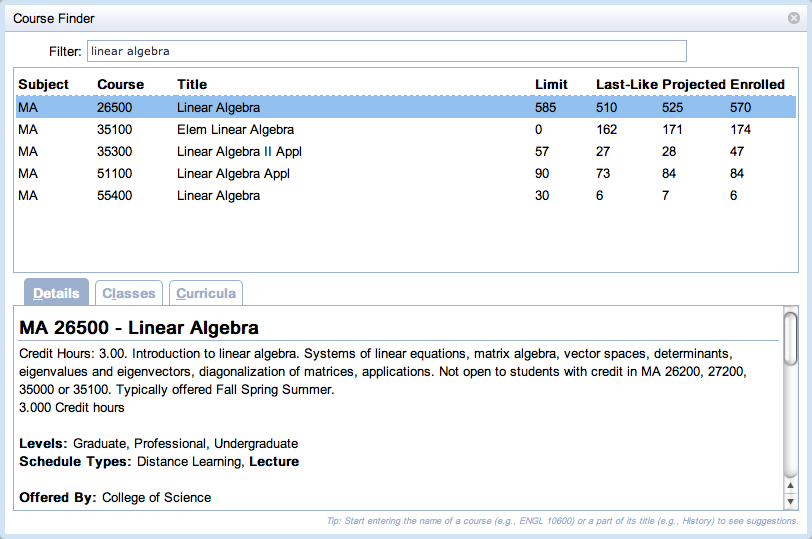
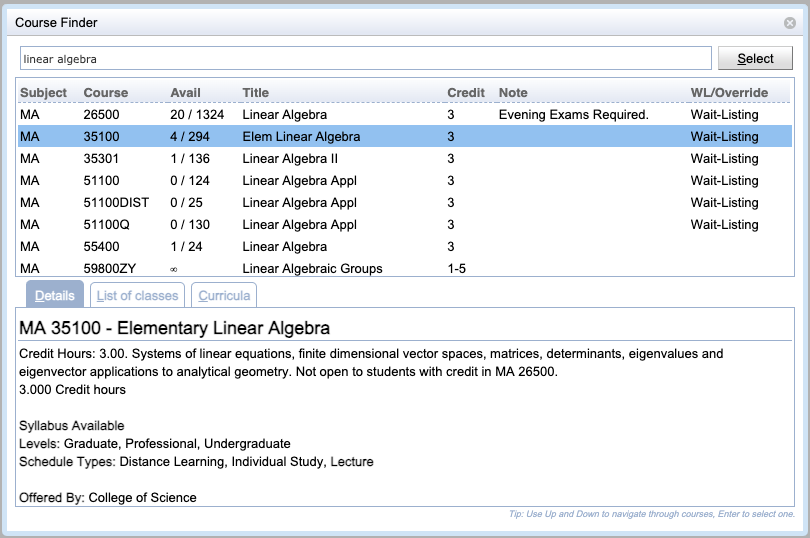
Student Scheduling Manual
- more description, especially the different settings
- extended description of the Course Finder dialog

Changed region(s): [[0.0, 0.0, 1.0, 1.0], [0.7099, 0.3569, 0.7407, 0.3866], [0.216, 0.4461, 0.2469, 0.4758]]

diff --git a/manuals/student-scheduling.md b/manuals/student-scheduling.md
@@ -17,7 +17,7 @@ Student scheduling, sometimes called *student sectioning*, involves assigning st
 of courses each student gets, considering student and course priorities, student preferences, penalizing alternatives and substitutes, minimizing distance conflicts or travel times, etc. In the rest of this section, the most interesting aspects of the student scheduling problem are discussed.
 
 ### Course Structure
-Each course may be offered in multiple configurations, such as face-to-face or online, each with multiple components (subparts), such as a lecture and a lab. Each subpart may contain multiple alternative classes. A student requesting a course will get one class of each subpart of a single configuration. There can be additional parent-child relations between individual classes, which also must be followed. So, for example, a student may get Lec 1 - Lab 1, Lec 1 - Lab 2, Lec 2 - Lab 3, or Lec 2 - Lab 4 class combination if attending the course face-to-face, or Dist 1 when attending the course online. Each class can also have a limit, allowing only a certain number of students to get in.
+Each course may be offered in multiple [configurations](../instructional-offering-configuration), such as face-to-face or online, each with multiple components (subparts), such as a lecture and a lab. Each subpart may contain multiple alternative classes. A student requesting a course will get one class of each subpart of a single configuration. There can be additional parent-child relations between individual classes, which also must be followed. So, for example, a student may get Lec 1 - Lab 1, Lec 1 - Lab 2, Lec 2 - Lab 3, or Lec 2 - Lab 4 class combination if attending the course face-to-face, or Dist 1 when attending the course online. Each class can also have a limit, allowing only a certain number of students to get in.
 
 ### Reservations and Restrictions
 Access to courses or certain components of courses, such as configurations or individual classes, may be restricted with [reservations](../reservations). A reservation reserves a certain number of seats in the course, or some of its components, for a particular group of students, e.g., identified by their study program. A restriction does not reserve any space, but the students must follow it. For example, a student of an online program may be restricted to the online course configuration, while other students may freely choose between the two configurations, assuming space is available. Similarly, there can be 100 spaces in a course reserved for students of a Computer Science major, or the space in one of the Labs may be reserved for a particular cohort.
@@ -31,10 +31,10 @@ A student can indicate which course configurations and/or classes are preferred 
 Students may also indicate whether they prefer online or face-to-face classes and whether back-to-backs are preferred or discouraged. For the Summer terms, which are organized into three four-week modules, it is also possible to indicate during which modules the student can have classes and whether they can attend classes on campus.
 
 ### Student and Course Request Priorities
-Student and course request priorities have been added to help students graduate on time. First of all, advisors may indicate courses as vital to the student, which means that the student absolutely needs the course (or one of the provided alternatives) to progress towards their degree. Moreover, students are divided into priority students (such as athletes and students in university bands and orchestra), students near graduation (with 100 or more credits earned), senior students (60 or more credits), and the rest. Vital course requests take priority over student priorities.
+Student and course request priorities have been added to help students graduate on time and to deal with popular courses of limited capacity. First of all, advisors may indicate courses as vital to the student, which means that the student absolutely needs the course (or one of the provided alternatives) to progress towards their degree. Moreover, students are divided into priority students (such as athletes and students in university bands and orchestra), students near graduation (with 100 or more credits earned), senior students (60 or more credits), and the rest. Vital course requests take priority over student priorities.
 
 ### Batch vs Online
-Student scheduling in UniTime can be done in two modes. In **batch** mode, the [Student Scheduling Solver](../student-scheduling-solver) is used to compute individual student schedules for all (or a selected population of) students simultaneously. This is an optimization process aimed at maximizing the number of courses students can take, as well as considering various optimization criteria, including travel times and the aforementioned preferences and priorities. This process includes a pre-registration step where students provide information about the courses they need, along with additional preferences, alternatives, and requests for free time.
+Student scheduling in UniTime can be done in two modes. In **batch** mode, the [Student Scheduling Solver](../student-scheduling-solver) is used to compute individual student schedules for all (or a selected population of) students simultaneously. This is an optimization process aimed at maximizing the number of courses students can take, as well as considering various optimization criteria, including travel times and the aforementioned preferences and priorities. This process includes a pre-registration step where students provide information about the courses they need (usig [Student Course Requests](../student-course-requests)), along with additional preferences, alternatives, and requests for free time.
 
 The **online** student scheduling serves students as they come. They can use the [Student Scheduling Assistant](../student-scheduling-assistant) to either modify their existing schedule or create a new one from scratch (e.g., if only the online mode is used, or the student did not complete the batch for some reason).
 
@@ -56,7 +56,7 @@ To enable pre-registration, the [academic session](../academic-sessions) needs t
 
 ## Advisor Course Recommendations
 
-It is possible to use UniTime for advising. Advisors can use the [Online Student Scheduling Dashboard](../online-student-scheduling-dashboard) to monitor their students' and their (pre-)registration progress. They can use the [Advisor Course Recommendations](../advisor-course-recommendations) page to change their status and provide a list of courses that they need to register for.
+It is possible to use UniTime for advising. Advisors can use the [Online Student Scheduling Dashboard](../online-student-scheduling-dashboard) to monitor their students' and their (pre-)registration progress. They can use the [Advisor Course Recommendations](../advisor-course-recommendations) page to change their students' status and provide a list of courses that they need to register for.
 
 Please note that the [Advisor Course Recommendations](../advisor-course-recommendations) page is an optional component and does not need to be used for students to pre-register. And even when used, students still need to use the [Student Course Requests](../student-course-requests) page, which will get pre-populated with the advisor course recommendations, and need to **Submit** the page to complete their pre-registration.
 
@@ -64,12 +64,26 @@ Please note that the [Advisor Course Recommendations](../advisor-course-recommen
 
 When opened, the advisor can look up a student, and the page gets pre-populated with the existing data. A different student can also be looked up by clicking the **Lookup Student** button or when the student's name or ID is clicked. If advisor course recommendations from multiple academic sessions can be viewed and/or edited, an academic session can be selected afterward. It can be changed at any time by clicking the term field. When there are any unsubmitted changes, the user is prompted when leaving the page or changing the student or session.
 
-Just like on the [Student Course Requests](student-course-requests), the page automatically offers course suggestions as the course name is being typed in (but it is possible to put in free text too), fills in credits, counts the credit totals, etc. When submitted, there is a PDF version generated that can be printed and signed by the student. It is also possible to email the document to the student (with the advisor on CC) when the page is submitted (and the Send email confirmation toggle is checked). In this case, the Send email... dialog pops up after the form has been successfully submitted, and the user can provide an additional message and email address if needed.
+The page automatically offers course suggestions as the course name is being typed in (but it is possible to put in free text too), fills in credits, counts the credit totals, etc. When submitted, there is a PDF version generated that can be printed and signed by the student. It is also possible to email the document to the student (with the advisor on CC) when the page is submitted (and the Send email confirmation toggle is checked). In this case, the Send email... dialog pops up after the form has been successfully submitted, and the user can provide an additional message and email address if needed.
 
 The page also allows for a student status change when submitted. This eliminates the need for the advisor to also use the [Online Student Scheduling Dashboard](online-student-scheduling-dashboard) to change the student status (e.g., to let the student fill in his/her course requests). UniTime keeps a record of these advisor course recommendations for possible auditing/reporting (what students requested versus what they have been advised, list students who have already been advised that did not fill their course requests in, etc.). Some of these can be seen on the [Online Student Scheduling Dashboard](online-student-scheduling-dashboard).
 
-### Settings
+### Recommendation Settings
 The student advisors can be defined on the Administration > Academic Sessions > [Student Advisors](../student-advisors) page. If an external authentication is used (such as [LDAP](../LDAP), [CAS](../CAS), or [OAuth2](../OAuth2)), their external IDs must match the user ID of the authenticated user. Such users will be granted the [Advisor role](../roles) upon logging in to UniTime and will have the related [permissions](../permissions). 
+
+The page requires the *Advisor Course Requests* permission. A user (typically an advisor) can look up and see advisor recommendations for all students; he/she may be only allowed to edit no students, only his/her students, or all students (depending on the *Student Scheduling Advisor Can Modify All Students* or *Student Scheduling Advisor Can Modify My Students* permissions).
+
+The following additional flags can be provided by the advisor (for each course request) when enabled:
+
+* Course Priority: **Critical**, **Important**, or **Vital**
+    * Courses of elevated priority take precedence before other courses in the solver
+    * See the `unitime.acrf.setCriticalCourses` configuration setting on the [Application Configuration](../application-configuration) screen
+
+* Wait-Listing: **No-Sub** or **Wait-List**
+    * *No-Sub* indicates that a course cannot be replaced by a substitute course
+    * *Wait-List* indicates that the course cannot be replaced by a substitute course and will be wait-listed when the student cannot get in during the batch
+    * See the `unitime.acr.waitlist` configuration setting on the [Application Configuration](../application-configuration) screen
+
 
 ## Student Course Requests
 
@@ -79,8 +93,43 @@ Students can use the [Student Course Requests](../student-course-requests) page 
 
 The Student Course Requests page can be used to collect course requests (course pre-registrations) from students. It is a variant of the [Student Scheduling Assistant](../student-scheduling-assistant) page that is used during online scheduling, without the ability to create a student schedule right away. Course requests can be collected during the timetabling process, once it is known which courses will be offered. Once student course requests are collected, the [Student Sectioning Solver](../student-scheduling-solver) can be used to create an optimized schedule for all the students. After that, online student scheduling can be enabled, allowing students to use the [Student Scheduling Assistant](../student-scheduling-assistant) page to review their schedule and make any necessary modifications.
 
-### Settings
+A student may request one or more courses, ordered by their priority. Each course may include any number of alternatives. Preferences can be set on individual classes and/or for [instructional method](../instructional-methods) when the course has multiple configurations with different methods (e.g., Face-to-Face and Online). The student may also mark the class and instructional method preferences as required. This is not enabled by default as it effectively restricts the list of available enrollments into the course to those that include the class(es) or instructional method(s) that are marked as required. It is possible to type in the course name or part of its title directly into the page and use the available suggestions to find the matching course, or click the ![Course Finder](../images/icon-finder.png) icon to open the [Course Finder](../course-finder) dialog. Please note that on the [Course Finder](../course-finder) dialog, the *List of Classes* is only available, and the preferences can be set only after the course timetable has been published.
+
+Free time requirements can also be put in the **Course Requests** table. They can be either typed in (day or days of the week + start time + end time) or selected using the [Course Finder](../course-finder) dialog by clicking the ![Course Finder](../images/icon-finder.png) icon. The position of a free time request is quite important. Any courses below the free time cannot overlap with the free time (the free time has higher priority), while courses above the free time are allowed to overlap. The solver will try to minimize the overlapping time in this case.
+
+Additional substitute courses can be entered in the **Substitute Course Requests** table at the bottom of the page. Unlike with alternatives, the substitute course (possibly also with alternatives provided) can substitute any of the above courses to ensure the student will get the desired number of courses. Only courses that are marked with the Wait-List or No-Sub toggle (when allowed) cannot be substituted.
+
+The **Preferences** button allows students to indicate their preference for class modality (face-to-face or online) and schedule gaps (prefer or avoid back-to-back classes).
+
+### Course Requests Settings
+In order for students to have access to the [Student Course Requests](../student-course-requests), the *Student* role needs to have *Student Scheduling Can Register* [permission](../permissions). The *Student Scheduling Can Require Preferences* permission is needed to be able to mark class and instructional method preferences as required.
+
 If student statuses are being used (see Administration > Other > [Student Status Types](../student-scheduling-status-types)), the student's status must allow for **Registration** for the page to be available and **Student Register** to make changes. The default student status is set on the Administration > Academic Sessions > [Academic Sessions](../academic-sessions) page; individual student statuses can be set on the [Online Student Scheduling Dashboard](online-student-scheduling-dashboard) or by advisors using the [Advisor Course Recommendations](../advisor-course-recommendations) page.
+
+Students may or may not have the ability to indicate that a course can be wait-listed when it is not available (assuming that the course in question allows for wait-listing), or not replaced by a substitute (No-Sub). The ability to indicate the desire to wait-list a course is included in the [student scheduling status](../student-scheduling-status-types). A wait-listed or no-sub course cannot be replaced by a substitute course; however, alternative courses are possible.
+
+Courses of a particular [Course Type](../course-types) can be made unavailable for students to select on the [Student Course Requests](../student-course-requests) page, when the appropriate course type is not allowed on the [student scheduling status](../student-scheduling-status-types). Such a course does not show up in the [Course Finder](../course-finder) dialog. Courses controlled by a [department](../departments) that does not have **Student Scheduling** enabled will also not be available for the students to find and select. This can be further adjusted using the [Student Scheduling Rules](../student-scheduling-rules).
+
+The available options on the **Student Scheduling Preferences** dialog can be adjusted by various `unitime.enrollment.studentPrefs.*` parameters on the [Application Configuration](../application-configuration) page. Namely:
+
+![Student Preferences](../images/student-scheduling-assistant-5.png){:class='screenshot'}
+
+* Set `unitime.enrollment.studentPrefs.enabled` to enable or disable student preferences dialog (defaults to true, **Preference** button will not show when disabled)
+* Set `unitime.enrollment.studentPrefs.datesAllowed` to `true` to allow for selection of the start and/or end dates. This is typically only enabled for Summer terms, as all automatically scheduled classes must fall into the selected dates.
+* Set `unitime.enrollment.studentPrefs.reqOnlineAllowed` to `true` to allow students to Require Online as their class modality. This is typically only enabled for Summer terms as all automatically scheduled classes would have to be online (be arranged hours with no required room, have no room, or have only a pseudo room that does not check for room conflicts).
+* Set `unitime.enrollment.studentPrefs.customNote` to a custom message (HTML format) to be displayed in the dialog.
+
+When `unitime.sectioning.alternativeCourse` is set to `true`, the [Edit Course Offering](../edit-course-offering) page can be used to provide a **Default Alternative Course Offering** for a course that will be used when the student requests the course without providing any alternatives.
+
+A custom course request validation can be implemented using the [CourseRequestsValidationProvider](https://github.com/UniTime/unitime/blob/master/JavaSource/org/unitime/timetable/onlinesectioning/custom/CourseRequestsValidationProvider.java) interface. This interface also provides an API for checking a student's eligibility to submit their course requests. This is used at Purdue University to check the student's ability to register for the selected courses and to request overrides for any potential registration errors. For example, please see the Purdue-specific [UniTime Course Requests User Manual](course-requests-purdue)
+
+[Page access control](../access-statistics#access-control) is available for the page. It can be configured using the following properties:
+* `unitime.accessControl.sectioning.activeLimitInMinutes`
+    * Number of minutes of inactivity for the user to get the Inactive Warning.
+    * Defaults to 15 minutes.
+* `unitime.accessControl.sectioning.maxActiveUsers`
+    * Maximal number of users using the page at the same time (not set or zero for disabled).
+    * Not set by default.
 
 ## Student Scheduling Solver
 
@@ -117,6 +166,50 @@ The **Reload Input Data** button can be used to reload the input data (courses w
 
 The **Save To Best** and **Restore From Best** buttons at the bottom of the page can be used to copy the current schedule over to the best manually or vice versa.
 
+### Solver Configuration
+
+Optimization weights and other parameters can be adjusted on the Administration > Solver > [Configurations](../solver-configurations) page. Student scheduling solver configurations have the **Student Scheduling Solver** appearance.
+
+The solver is working with variables (one variable is a requested course or free time, including its alternatives) and values (one value is a valid combination of sections for the course or its alternative). Besides of hard constraints that cannot be violated (class/configuration/course limits, time conflicts, reservations, linked sections, availability for students with teaching assignments, etc.), the batch solver tries to maximize the weighted sum of all assigned variables (course/free-time requests). The weight is computed using the request priority, the alternativity of the course in the request (1st alternative has a lower weight than the main course, etc.), distance conflicts and time overlaps (when allowed), and section and instructional method preferences. There are also additional penalties for classes that are without a time assignment, to promote section balancing, minimize changes (in MPP mode), and to keep students of the same group together. The solver can also consider last-like student demands or curricula to ensure that students avoid sections that are expected to be needed by students who have yet to arrive. These projected demands can be also used to compute expectations for the online student scheduling solver (which considers a few more weights, namely avoiding over-expected sections, considering current selection and locked sections, etc.).
+
+The base weights for the priority-based weighting (course priorities are considered) are 0.501 for the first priority course, 0.251 for the second priority course, 0.126 for the third priority course, etc. (using 0.501^n, where n is 0, 1, 2, ...). So, getting the first priority and nothing else has a slightly higher weight than all the other courses. However, the alternatives are also factored in using the 0.501 factor, so the 1st alternative of the 1st priority course has the same weight as the 2nd priority course, etc.
+
+As for the other weights, the time conflict can eat up to 1/2 of the weight of the lower priority course, proportional to how much time is being overlapped.
+
+The following weights are much lower, mostly to provide order to the available enrollments:
+- Each distance conflict takes 5% of the weight of the lower priority course (20% for the students that require short distances, see [Student Accommodations](../student-accommodations)).
+- An enrollment without time assignment(s) is also penalized by deducting up to 1% of its weight (proportional to how many sections have no time assigned).
+- There is up to a 0.5% penalty for section balancing
+- Up to 10% for the distance to the original assignment (when MPP mode is used, penalizing a different time more than a different room)
+- Up to 10% for the preferences (e.g., penalizing enrollment in a section that is not preferred, if there is a preference)
+- Up to 10% for keeping students in the same group (for groups of [Student Group Type](../student-group-types) that have the *Keep Students Together* flag set)
+
+Free time requests also play a role. If a course is below a free time request (in the priority), it cannot overlap with the free time. If it is above the free time request, the time conflicting with the free time is considered (in the same way as a time conflict between two courses).
+
+Teaching assignments can prohibit time overlaps (a student cannot enroll in a class that overlaps with their time assignment) or minimize time overlaps (there is a penalty for overlapping time with a teaching assignment). When the [instructor scheduling](instructor-scheduling) module of UniTime is used to assign teaching assistants, this can be configured for each assignment (e.g., a TA must be available for the sections they are teaching, but may have a time conflict during the lecture).
+
+The solver does not guarantee that it will just maximize the course request priority. The requests may be prioritized one level lower due to other penalties (especially those lower on the list, where time and distance conflicts can play a bigger role), but typically not more.
+
+Vital (critical) course requests (and possibly also priority students) are handled by assigning them first and not allowing the solver to make a change that would favor a course request that is not critical over a critical one (despite their priorities). There are no additional weights associated with these. Moving the priority course requests to the top of the list of requested courses also helps the solver to ensure it gets as many of those assigned as possible.
+
+### Student Priority
+
+It is possible to prioritize some students over others. There can be six priority groups (Priority, Senior, Junior, Sophomore, Freshmen, and Normal). Students can be assigned to a particular priority group (other than Normal) via the [student groups](../student-groups) feature. So, for instance, a Priority group can be created for students who should be assigned first. For the solver to recognize the groups, there needs to be an appropriate solver parameter created (Administration > Solver > [Parameters](../solver-parameters) page, e.g., `Load.PriorityStudentFilter` for priority students, `Load.SeniorStudentFilter` for senior students, etc.) and populated with a student filter that would match the students that should have that priority. Here is an example of Priority group matching the `Load.PriorityStudentFilter`. 
+
+![Priority Student Group](images/student-scheduling-1.png){:class='screenshot' style='max-width:600px;'}
+
+### Student Schedule Quality
+
+Starting with UniTime 4.4, additional student schedule quality criteria have been introduced in the student scheduling solver. These include:
+- **Lunch Breaks** (allow time for lunch): there is a lunch conflict created when the student has two classes on a day that overlap with the lunch period of 11 am - 1 pm, with less than 30 minutes in between
+- **Travel Time**: there is a conflict proportional to the travel time (in minutes) between two classes on the same day that are less than 1 hour apart (or less than 2 hours apart when the travel time is longer than the break time of the first class)
+- **Back-to-Back**: there is a (negatively weighted) conflict for any two classes that are back-to-back and on the same day (the idea is to minimize gaps, so we want more classes clustered together)
+- **Workday**: there is a conflict when the student has two classes that have more than six hours between the start of the first one and the end of the second one; the conflict is proportional to the number of hours over this limit (e.g., if the two classes span 8 hours, the penalty is 2) -- again the idea is to make the schedule more compact, without unnecessary gaps
+- **Too Early**: there is a conflict when the class starts before 8:30 am (proportional to the time of the class before 8:30)
+- **Too Late**: there is a conflict when the class ends after 5:30 pm (proportional to the time of the class after 5:30)
+
+All these can be configured using the solver parameters using the [Solver Configurations](../solver-configurations) page.
+
 ## Published Runs
 
 When test runs are enabled (the user has the *Student Sectioning Solver Publish* [permission](../permissions)), the **Publish** button (on the [Student Scheduling Solver](../student-scheduling-solver) page) can be used to save the solution under the [Published Schedule Runs](../published-schedule-runs) page without actually saving the student class enrollments in the database. This can be very useful for conducting periodic (e.g., nightly) test runs during pre-registration, without saving any student schedules in the database yet.
@@ -138,11 +231,3 @@ To Administration > Academic Sessions > [Task Scheduler](../task-scheduler) page
 ## Student Scheduling Assistant
 
 ## Re-Scheduling & Wait-Listing
-
-# Administration
-
-*Work in progress...*
-
-## Student Statuses
-
-## Student Scheduling Rules

diff --git a/course-finder.md b/course-finder.md
@@ -9,6 +9,10 @@ title: Course Finder
 The Course Finder screen provides tools to look up a course or find information about a course. When the screen is opened from a line with a course, the course description appears, otherwise it is opened without any course information.
 
 ![Course Finder](images/course-finder-1.png){:class='screenshot'}
+Course timetabling version of the Course Finder dialog (e.g., [Edit Curriculum](edit-curriculum) or [Add Reservation](add-reservation))
+
+![Course Finder](images/course-finder-3.png){:class='screenshot'}
+Student scheduling version of the Course Finder dialog (e.g., [Student Course Requests](student-course-requests)).
 
 ## Details
 
@@ -16,26 +20,37 @@ The Course Finder screen provides tools to look up a course or find information 
 
 The top-most editable field is the filter field. As soon as the user starts entering letters or digits, a list of courses containing that character will appear in the table below. It is possible to filter by the course abbreviation, as well as the long name of the course.
 
-**Course table**
+**Courses**
 
 The course table contains courses that fit the criteria entered in the filter field above. Click on any course to display details in the third part of the screen.
 
-Free Time tab is displayed in this section when the screen is used to pick courses/free time requests for the Student Scheduling Assistant. To select free times, the user needs to click on the fields with appropriate time slots and then press Enter to go back to the [Student Scheduling Assistant](student-scheduling-assistant) screen.
+* The student scheduling version also allows the list of courses to be filtered further by the credits, class dates, or instructor.
+* When applicable, multiple courses can be selected using the checkboxes on the left side of the table. The selected courses will be used to populate the course and its alternatives in this case in the order the courses have been selected.
+
+**Free Time** (student scheduling when used in the **Course Requests** table)
+
+Free Time tab is displayed in this section when the screen is used to pick courses/free time requests for the [Student Scheduling Assistant](student-scheduling-assistant). To select free times, the user needs to click on the fields with appropriate time slots and then press Enter to go back to the [Student Scheduling Assistant](student-scheduling-assistant) screen.
+
+![Course Finder](images/course-finder-2.png){:class='screenshot'}
 
 **Course information**
 
 There are three types of information to be displayed about the course
 
-* Details
+* **Details**
 	* Details about the course as listed in the course catalog
 
-* Classes
+* **List of Classes**
 	* A list of classes as defined in the Instructional Offerings section of the timetabling application
+	* When the *Course Finder* dialog is used on any of the student scheduling pages, such as [Student Course Requests](student-course-requests), the *Classes* tab can be used to prefer (or possibly require) selected instructional methods or classes. Instructional Methods can be only selected when the course has two or more configurations with different instructional methods, such as Face-to-Face or Online.
 
-* Curricula
+* **Curricula**
 	* Curricula that contain the course, together with numbers of students for each academic classification
+	* Not available when the *Course Finder* dialog is shown on any of the student scheduling pages, such as [Student Course Requests](student-course-requests)
 
 ## Notes
 
 To close the Course Finder screen, press Esc or click on any place of the previous screen (outside the current screen). When you need to select a course or free time for the Student Scheduling Assistant screen, click on the course/free time and then press Enter.
+
+The custom [CourseDetailProvider](https://github.com/UniTime/unitime/blob/master/JavaSource/org/unitime/timetable/onlinesectioning/custom/CourseDetailsProvider.java) interface can be used to provide university-specific information on the Details tab, returning an HTML text to be displayed in the tab. The [DefaultCourseDetailsProvider](https://github.com/UniTime/unitime/blob/master/JavaSource/org/unitime/timetable/onlinesectioning/custom/DefaultCourseDetailsProvider.java) can be configured through the [Application Configuration](application-configuration) page to download and display a particular page from the course catalog (see the `unitime.custom.default.*` parameters).
 
